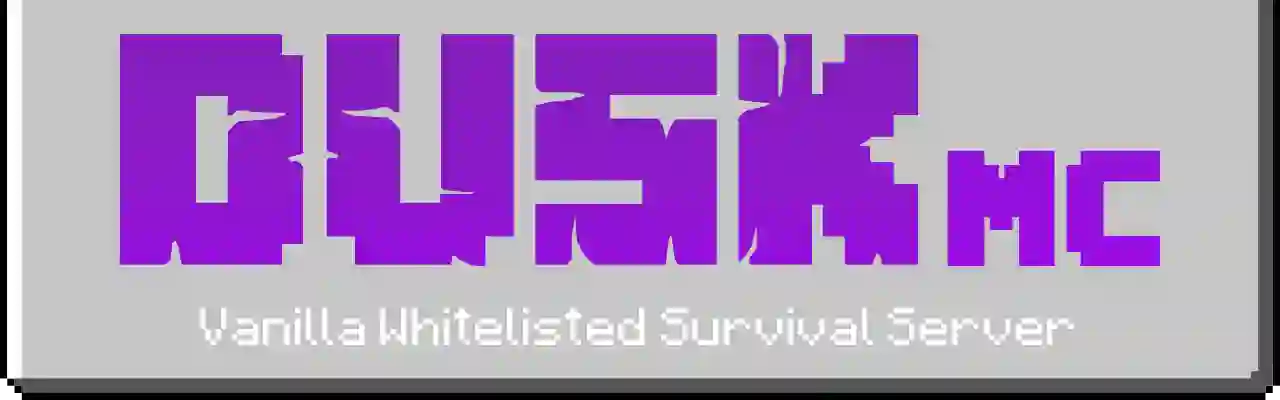
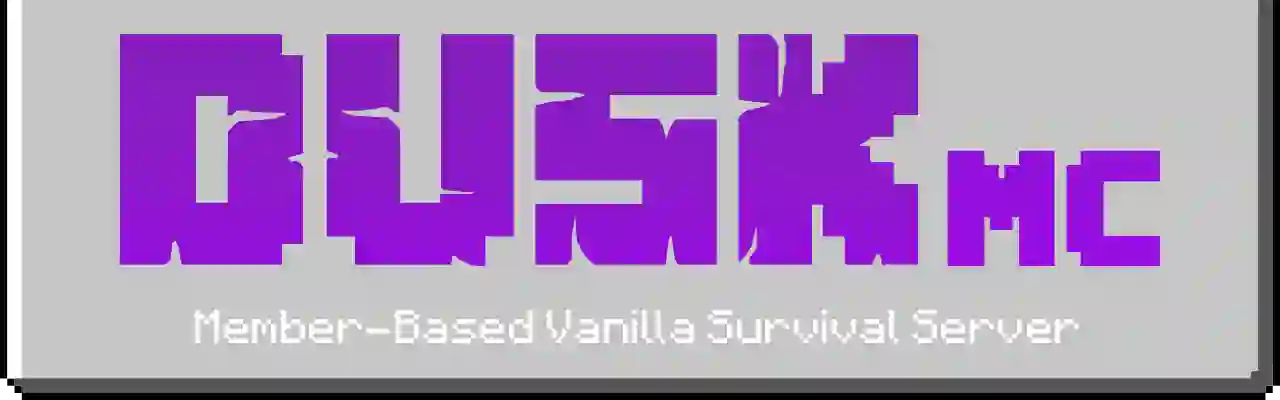
Minor text updates

Changed region(s): [[0.125, 0.75, 0.8438, 0.87], [0.625, 0.54, 0.6562, 0.6]]

diff --git a/info.html b/info.html
@@ -22,9 +22,9 @@
 			<main class="dusk-page-body">
 				<div class="dusk-page-content">
 					<h1>Info</h1>
-					<h3>Whitelisting.</h3>
-					<h4>25/25 Slots Available</h4>
-					<p>This server utilizes whitelisting to maintain a safe and active community. You can easily apply by following the steps on the page, as well as join the Discord server to track progress. If there are no slots available, please consider donating so more players can access the server.</p>
+					<h3>Membership.</h3>
+					<h4>15/15 Slots Available</h4>
+					<p>This server requires a membership to maintain a trusting and close-knit community. You can easily apply by following the steps on the page, as well as join the <a href="https://discord.com/invite/PsJ2Dzs" target="_blank">Discord</a> server to track progress. If there are no slots available, please consider donating so more players can access the server.</p>
 					<form action="https://api.staticforms.xyz/submit" method="post" onSubmit="if(!confirm('Are you ready to submit?')){return false;}">
 					<p>Contact:</p>
 					<input type="text" name="$MCUsername" placeholder="Minecraft Username">
@@ -34,7 +34,7 @@
 					<textarea name="message"> </textarea>
 					<input type="text" name="honeypot" style="display:none">
 					<input type="hidden" name="accessKey" value="da22f52a-181f-47fe-b140-02d04b3eb281">
-					<input type="hidden" name="subject" value="New Whitelist Request" />
+					<input type="hidden" name="subject" value="New Membership Request" />
 					<input type="hidden" name="replyTo" value="@">
 					<input type="hidden" name="redirectTo" value="https://dusk.pro/info.html">
 					<input type="submit" value="Submit" />

diff --git a/index.html b/index.html
@@ -4,7 +4,7 @@
 
 <head>
 	<title>DuskMC Home</title>
-	<meta content="DuskMC - Minecraft Survival Experience" property="og:title" />
+	<meta content="DuskMC - Whitelisted Vanilla Survival Server" property="og:title" />
 	<meta content="https://dusk.pro" property="og:url" />
 	<meta content="https://dusk.pro/assets/Banner.webp" property="og:image" />
 	<meta content="#9C08EC" data-react-helmet="true" name="theme-color" />
@@ -20,7 +20,7 @@
 	
 	  navigator.clipboard.writeText("mc.dusk.pro");
 	
-	  alert("Server IP Copied to Clipboard. DuskMC utilizes whitelisting to maintain a safe and active community. If you haven't applied, follow the link on this page.");
+	  alert("Server IP Copied to Clipboard.\n\nThis server requires a membership to maintain a trusting and close-knit community. If you haven't applied, follow the link on this page.");
 	}
 	
 	</script> 
@@ -40,8 +40,8 @@
 					<h1>Welcome to DuskMC</h1>
 					<p>You've stumbled upon a friendly survival Minecraft server. Here you can build, explore, make friends, and work together. What will you create?</p>
 					<br>
-					<p><a href="/info.html">Get whitelisted.</a></p>
-					<img onclick="copyServer();" style= "margin-top: 10px;cursor:pointer;"src="assets/JoinButton.svg" width="306" height="60"/>
+					<p><a href="/info.html">Apply for Membership</a></p>
+					<img onclick="copyServer();" style= "margin-top: 5px;cursor:pointer;"src="assets/JoinButton.svg" width="350"/>
 				</div>
 			</main>
 		</div>

diff --git a/worlds.html b/worlds.html
@@ -22,7 +22,9 @@
 					<h1>Worlds</h1>
 					<h3>Occasional world & seed resets.</h2>
 					<UL>
-						<li>DuskMC Renewal will be starting fresh with a completely new world in 1.18!</li>
+						<li>The goal of this server is to have occasional world resets to keep the gameplay exciting. When an old world is put in the vault, it will appear here.</li>
+						<br>
+						<li>DuskMC will be starting fresh with a completely new world in 1.18!</li>
 					</UL>
 				</div>
 			</main>
